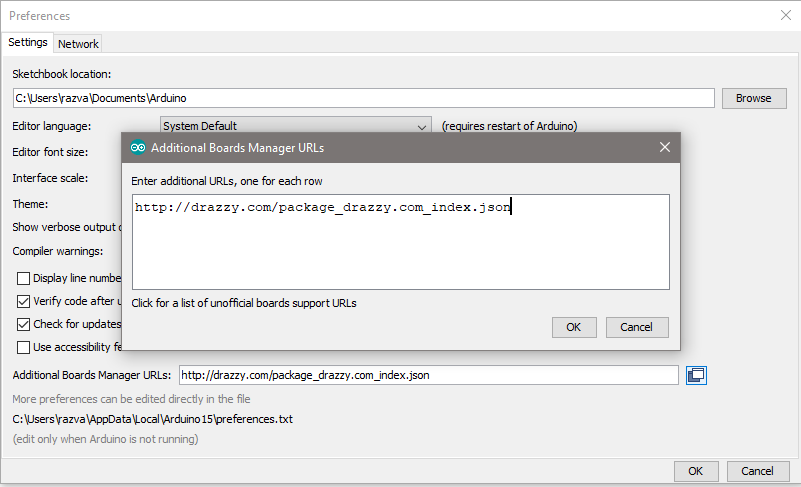
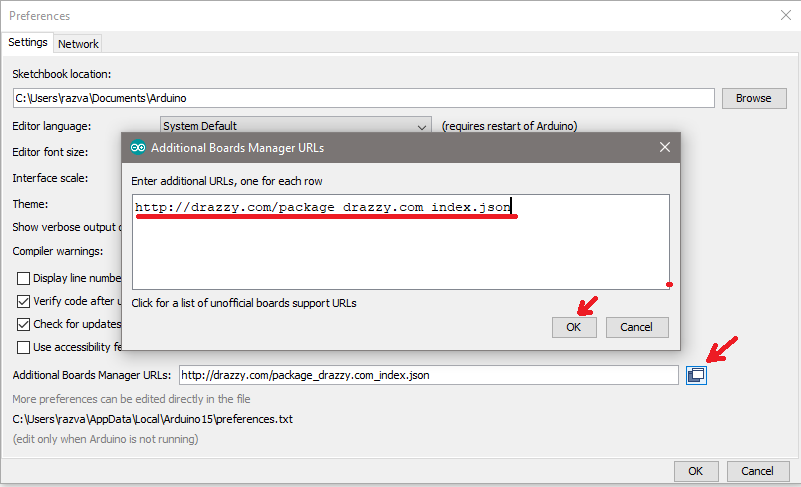
Add screenshot

diff --git a/EnvironmentSetup.md b/EnvironmentSetup.md
@@ -4,7 +4,8 @@ First you need the Arduino IDE program. Just get the latest version from [Arduin
 # Configuration
 Then configure the IDE for programming the two boards.
 Add the two URLs for the board definitions sources (see bellow), one for ATTiny85 and one for ESP8266 (ESP-07). For both you can follow the same steps:
-* **Step 1:** Go to settings (by pressing control key and comma: Ctrl+**,**). Then add one of the URLs bellow to the "**Additional Board Manager URLs**":
+* **Step 1:** Go to settings (by pressing control key and comma: Ctrl+**,**). Then add one of the URLs bellow to the "**Additional Board Manager URLs**":  
+![ATTiny85 Flash Electrical Diagram](https://github.com/RazMake/ArduinoUNOMultiProgrammer/blob/master/Screenshots/AddATTinyBoardSource.png?raw=true)
 * **Step 2:** Go to the boards manager (Menu -> Board -> **Boards Manager**) and select ATTiny85.
 * **Step 3:** Configure the properties of the microcontroller.
 
@@ -12,12 +13,12 @@ Add the two URLs for the board definitions sources (see bellow), one for ATTiny8
 * I found that **ATTinyCore** ([GitHub](https://github.com/SpenceKonde/ATTinyCore/blob/master/Installation.md)) works well for me so I am using this one.  
 _(according to [this](https://forum.arduino.cc/index.php?topic=609034.0) discussion on Arduino forum, this is he most advanced core, at least around Apr-2019)_
 ```
-	        http://drazzy.com/package_drazzy.com_index.json
+	http://drazzy.com/package_drazzy.com_index.json
 ```
 	
 * Another option, if you are curious to try it, is **David's** ([GitHub](https://github.com/damellis/attiny/)):
 ``` 
-	        https://raw.githubusercontent.com/damellis/attiny/ide-1.6.x-boards-manager/package_damellis_attiny_index.json
+	https://raw.githubusercontent.com/damellis/attiny/ide-1.6.x-boards-manager/package_damellis_attiny_index.json
 ```
 
 
